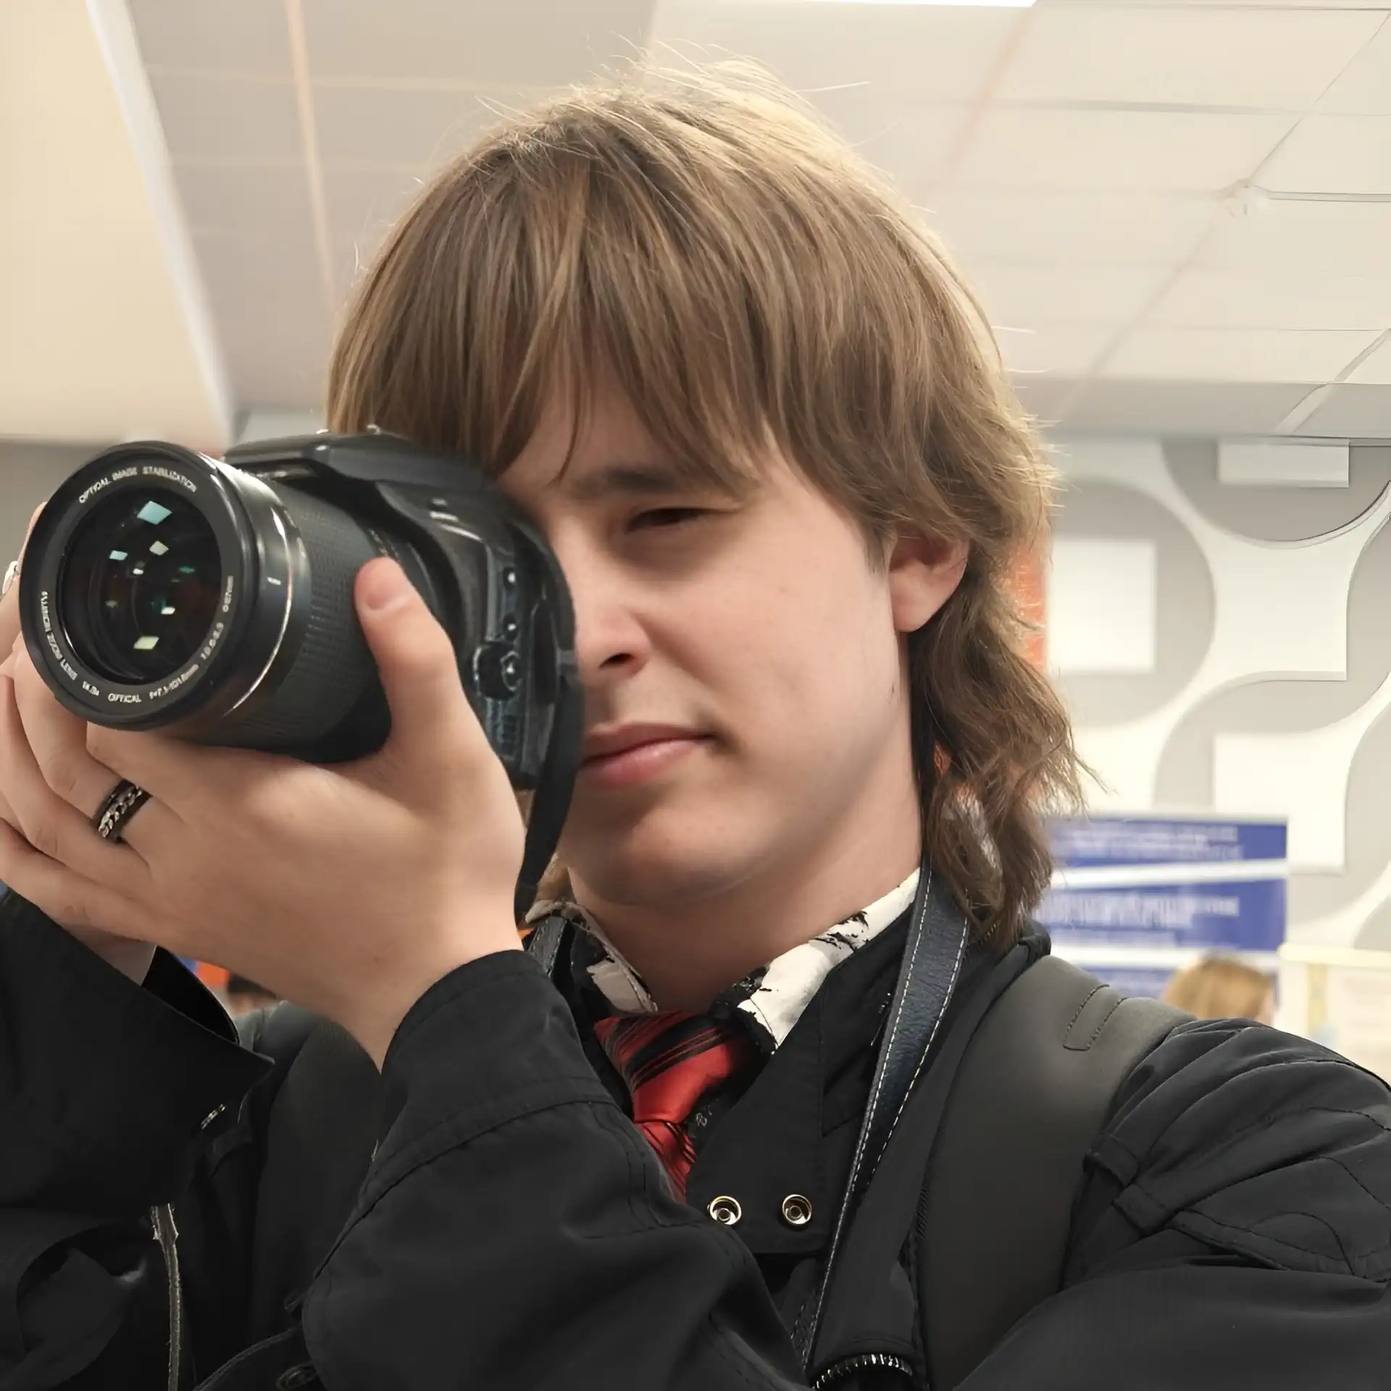
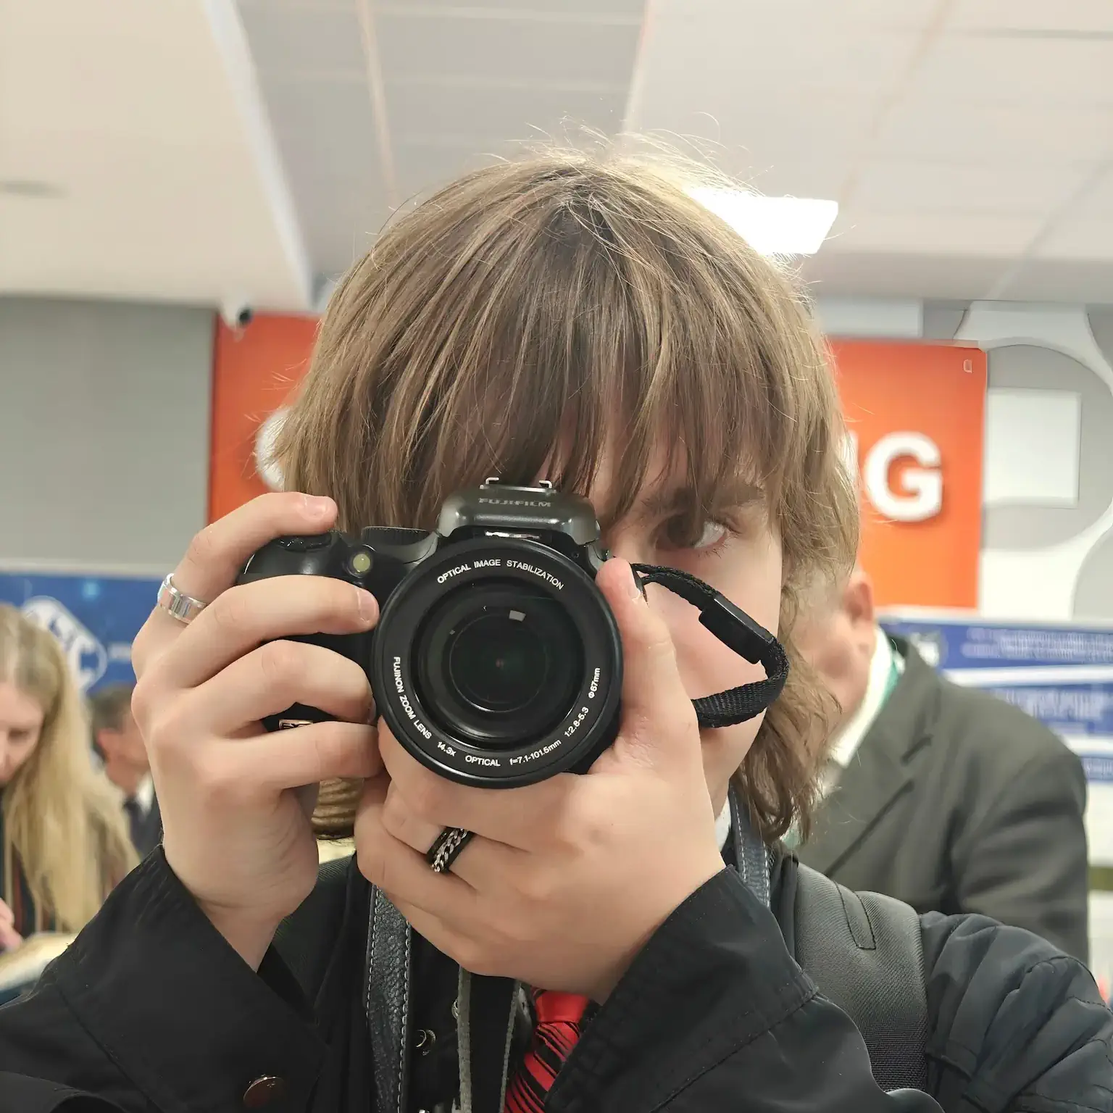
11.09.2026

diff --git a/index.html b/index.html
@@ -3,7 +3,7 @@
 <head>
 <meta charset="UTF-8">
 <meta name="viewport" content="width=device-width, initial-scale=1.0">
-<title>Совет Самоуправления Старост</title>
+<title>Совет Ученического Самоуправления</title>
 <style>
 
   :root{
@@ -35,7 +35,7 @@
   .brand-title{color:#fff;font-weight:700;font-size:17px;letter-spacing:.4px;text-align:right;line-height:1.25}
   .brand-title small{display:block;font-weight:400;font-size:12px;color:var(--gold2)}
   .logo-img{
-    width:52px;height:52px;flex:0 0 52px;border-radius:50%;object-fit:cover;
+    width:60px;height:60px;flex:0 0 60px;border-radius:50%;object-fit:cover;
     box-shadow:0 0 0 3px rgba(255,255,255,.15);background:#fff;
   }
   .burger{display:none;background:none;border:none;color:#fff;font-size:26px}
@@ -47,7 +47,6 @@
       display:none;box-shadow:0 20px 30px rgba(0,0,0,.3);
     }
     nav.open{display:flex}
-    .brand-title{display:none}
   }
 
   .page{display:none;min-height:calc(100vh - 76px)}
@@ -315,6 +314,19 @@
     .doc-acc-inner{padding-left:42px}
   }
 
+  /* ===== ПОИСК ПО ДАТЕ НА СТРАНИЦЕ «ИТОГИ» ===== */
+  .results-search{display:flex;gap:12px;flex-wrap:wrap;align-items:center;margin-bottom:26px}
+  .results-search input[type="date"]{
+    padding:11px 16px;font-size:15px;font-family:inherit;color:var(--text);
+    border:1px solid #d7dde5;border-radius:12px;background:#fff;outline:none;
+    transition:border-color .2s,box-shadow .2s;
+  }
+  .results-search input[type="date"]:focus{border-color:var(--gold);box-shadow:0 0 0 3px rgba(212,169,78,.2)}
+  .results-empty{
+    grid-column:1/-1;text-align:center;color:var(--muted);
+    font-size:15px;padding:40px 0;line-height:1.6;
+  }
+
   footer{background:var(--blue2);color:#aebfd0;text-align:center;padding:22px;font-size:13px;margin-top:40px}
 
 
@@ -417,15 +429,32 @@
   .member-info .role { font-size: 11px !important; }
   .member-info .grp { font-size: 11px !important; }
 
-  header { padding: 0 14px !important; }
-  .brand { gap: 10px !important; }
-  .brand-title { font-size: 14px !important; }
-  .brand-title small { font-size: 11px !important; }
+  header { padding: 0 14px !important; gap: 10px; }
+  .brand { gap: 10px !important; min-width: 0; }
+  .brand-title {
+    font-size: 13px !important;
+    line-height: 1.2 !important;
+    white-space: normal !important;
+    max-width: 46vw;
+  }
+  /* подзаголовок на смартфоне скрываем — места мало */
+  .brand-title small { display: none !important; }
+  /* на совсем узких экранах чуть уменьшаем */
+  @media (max-width: 480px) {
+    .brand-title { font-size: 12px !important; max-width: 52vw; }
+    .logo-img {
+      width: 40px !important;
+      height: 40px !important;
+      flex: 0 0 40px !important;
+    }
+  }
 }
 
 /* Мобильная оптимизация!! */
 
 </style>
+<base target="_blank">
+<base target="_blank">
 <base target="_blank">
 <base target="_blank">
 <base target="_blank">
@@ -439,8 +468,8 @@
   <nav id="nav"></nav>
   <div class="brand">
     <div class="brand-title">
-      Совет Самоуправления Старост
-      <small>представительный орган студенческого самоуправления</small>
+      Совет Ученического Самоуправления
+      <small>представительный орган обучающихся</small>
     </div>
     <!-- ЛОГОТИП: положите файл logo.png рядом с этим HTML-файлом -->
     <img class="logo-img" src="img/logo.webp" alt="Логотип Совета Самоуправления Старост">
@@ -495,8 +524,13 @@
     </div>
 
     <div class="team-subsection">
-      <h4 class="sub-title">Участники</h4>
+      <h4 class="sub-title">Старосты</h4>
       <div class="team-grid" id="team-members"></div>
+    </div>
+
+    <div class="team-subsection">
+      <h4 class="sub-title">Активы Колледжа</h4>
+      <div class="team-grid" id="team-actives"></div>
     </div>
 
     <div class="team-subsection">
@@ -510,6 +544,11 @@
 <main class="page" id="page-results">
   <section class="section">
     <div class="section-head"><h3>Итоги прошедших мероприятий</h3></div>
+    <div class="results-search">
+      <input type="date" id="results-date" aria-label="Дата мероприятия">
+      <button class="toggle-btn" id="results-find">Найти</button>
+      <button class="toggle-btn" id="results-reset">Сбросить</button>
+    </div>
     <div class="events-grid" id="results-grid"></div>
   </section>
 </main>
@@ -596,36 +635,12 @@ const SLIDES = [
 /* 3) СОБЫТИЯ (будущие). date "ГГГГ-ММ-ДД". long — подробности для окошка в календаре. */
 const EVENTS = [
   {
-    title: "Общее собрание старост курса",
-    desc: "Обсуждаем план работы на семестр, выборы актива и текущие вопросы по группам.",
-    long: "Открываем семестр: утверждаем план работы Совета, проводим выборы ответственных за направления и разбираем текущие вопросы по группам. Присутствие всех старост обязательно. После официальной части — неформальное общение.",
-    date: "2026-09-10", place: "Актовый зал",
+    title: "Созвон",
+    desc: "Созвон тутуту.",
+    long: "",
+    date: "2026-09-16", place: " - ",
     bg: "linear-gradient(135deg,#16324f,#2a5a86)",
     type: "meeting"
-  },
-  {
-    title: "Сдача отчётов по посещаемости",
-    desc: "Последний день подачи сводных ведомостей за первые две недели семестра.",
-    long: "Старостам необходимо сдать сводные ведомости посещаемости за первые две недели семестра. Форма отчёта — в общем чате Совета. Просьба не откладывать: после дедлайна данные передаются в деканат.",
-    date: "2026-09-15", place: "Кабинет 212",
-    bg: "linear-gradient(135deg,#7a2334,#c4465e)",
-    type: "deadline"
-  },
-  {
-    title: "Осенний субботник",
-    desc: "Уборка территории кампуса и прилегающего парка, сбор в 10:00 у главного входа.",
-    long: "Приводим территорию в порядок перед учебным сезоном: сбор мусора, уборка клумб и парковой зоны. Инвентарь выдаётся на месте. Активным участникам — благодарности. Сбор в 10:00 у главного входа.",
-    date: "2026-09-20", place: "Территория кампуса",
-    bg: "linear-gradient(135deg,#1d5c4a,#3aa08a)",
-    type: "event"
-  },
-  {
-    title: "День донора",
-    desc: "Выездная станция переливания крови работает в актовом зале с 9:00 до 14:00.",
-    long: "В актовом зале развёрнута выездная станция переливания крови. Перед сдачей — небольшой завтрак и консультация врача. Запись у координатора направления. Каждый донор получает сертификат и комплимент.",
-    date: "2026-09-25", place: "Актовый зал",
-    bg: "linear-gradient(135deg,#6b4e8f,#9b7ec4)",
-    type: "event"
   }
 ];
 
@@ -634,73 +649,54 @@ const EVENTS = [
       result — текст с итогами под описанием. */
 const RESULTS = [
   {
-    title: "Турнир «Битва старост»",
-    desc: "Спортивный турнир между командами старост: волейбол, эстафеты, перетягивание каната.",
-    result: "Участвовало 14 команд от групп. Победу одержала команда группы 204. Все участники получили грамоты, победители — кубок и памятные призы. Решено сделать турнир ежегодным.",
-    date: "2026-05-20", place: "Спортивный зал",
-    bg: "linear-gradient(135deg,#1d5c4a,#3aa08a)"
-  },
-  {
-    title: "Субботник «Чистая территория»",
-    desc: "Общегородской субботник с уборкой территории и высадкой кустарников.",
-    result: "В работах приняли участие 96 человек. Собрано 40 мешков мусора, высажено 25 кустов сирени и спирей. Группа 301 получила благодарность администрации за самую организованную бригаду.",
-    date: "2026-04-18", place: "Территория и парк",
-    bg: "linear-gradient(135deg,#16324f,#2a5a86)"
-  },
-  {
-    title: "Концерт ко Дню Победы",
-    desc: "Праздничный концерт с участием творческих коллективов и чтением писем с фронта.",
-    result: "Концерт посетило более 300 зрителей. Выступили 8 коллективов, открылась выставка «Письма с фронта». Собранные средства от благотворительной ярмарки на входе переданы ветеранам.",
-    date: "2026-05-09", place: "Актовый зал",
-    bg: "linear-gradient(135deg,#7a2334,#c4465e)"
-  },
-  {
-    title: "Ярмарка идей проектов",
-    desc: "Презентация студенческих проектов с голосованием за лучшую инициативу.",
-    result: "Представлено 12 проектов. По итогам голосования финансирование получили три идеи: «Студенческая кофейня», «Буккроссинг в коридорах» и «Экологичный кампус». Команды приступают к реализации.",
-    date: "2026-03-14", place: "Конференц-зал",
-    bg: "linear-gradient(135deg,#6b4e8f,#9b7ec4)"
+    title: "Фотовыставка [884 Гомель]",
+    desc: "Выставка приурочена к 884-летию Гомеля! Студенты поделились своими снимками самых красивых и живописных мест Гомеля.",
+    result: "Ученики с интересом побывали на выставке и посмотрели все фотографии. Многим понравилось творчество своих одногруппников. Впечателние были положительные",
+    date: "2026-09-11", place: "Холл Колледжа",
+    bg: 'url("img/events/1.webp") center/cover' /*Сюда картинку*/
   }
 ];
+
+
+
+
+
+
 
 /* 5) СОСТАВ Совета: contacts — почта, телефон, Telegram (ник без @).
       photo — путь к фото, например "photos/ivanova.jpg"; пока пусто — заглушка с инициалами. */
 
 /* Руководство */
 const LEADERS = [
-  { name: "Быркова Арина", role: "Председатель Совета Старост", group: "группа: ТМ-44", bg: "linear-gradient(135deg,#16324f,#2a5a86)", photo: "img/avatars/byrkova.webp",
-    contacts: { email: "ivanova@example.ru", phone: "+7 (900) 123-45-67", tg: "ivanova_sss" } },
+  { name: "Быркова Арина", role: "Председатель Совета", group: "ТМ-44", bg: "linear-gradient(135deg,#16324f,#2a5a86)", photo: "img/avatars/byrkova.webp",
+    contacts: { email: " - ", phone: "+375 29 571 3017", tg: "arixzweq18" } },
     { name: "Тихиня Егор", role: "Заместитель Председателя<br> Совета Старост", group: "группа: ТМ-44", bg: "linear-gradient(135deg,#1d5c4a,#3aa08a)", photo: "",
-    contacts: { email: "petrov@example.ru", phone: "+7 (900) 234-56-78", tg: "petrov_sss" } },
-    { name: "Железко Егор", role: "Секретарь Совета Старост", group: "группа: ТМ-44", bg: "linear-gradient(135deg,#1d5c4a,#3aa08a)", photo: "img/avatars/jelezko.webp",
-    contacts: { email: "petrov@example.ru", phone: "+7 (900) 234-56-78", tg: "petrov_sss" } },
+    contacts: { email: " - ", phone: " - ", tg: " - " } },
+    { name: "Железко Егор", role: "Секретарь Совета", group: "ТМ-44", bg: "linear-gradient(135deg,#1d5c4a,#3aa08a)", photo: "img/avatars/jelezko.webp",
+    contacts: { email: " - ", phone: "+375 44 770 4878", tg: "Egor_17nerial" } },
 ];
 
 /* Участники — все старосты */
 const MEMBERS_ALL = [
-  { name: "Смирнова Мария", role: "Секретарь", group: "группа 105", bg: "linear-gradient(135deg,#6b4e8f,#9b7ec4)", photo: "",
-    contacts: { email: "smirnova@example.ru", phone: "+7 (900) 345-67-89", tg: "smirnova_sss" } },
-  { name: "Козлов Артём", role: "Ответственный за спорт", group: "группа 302", bg: "linear-gradient(135deg,#a3542f,#d98a52)", photo: "",
-    contacts: { email: "kozlov@example.ru", phone: "+7 (900) 456-78-90", tg: "kozlov_sss" } },
-  { name: "Фёдорова София", role: "Ответственная за культуру", group: "группа 203", bg: "linear-gradient(135deg,#2e4a6b,#5a86b3)", photo: "",
-    contacts: { email: "fedorova@example.ru", phone: "+7 (900) 567-89-01", tg: "fedorova_sss" } },
-  { name: "Волков Никита", role: "Ответственный за СМИ", group: "группа 402", bg: "linear-gradient(135deg,#7a2334,#c4465e)", photo: "",
-    contacts: { email: "volkov@example.ru", phone: "+7 (900) 678-90-12", tg: "volkov_sss" } },
+  /* { name: "Кубай Глеб Юрьевич", role: "Глав. Администратор", group: "МО-34", bg: "linear-gradient(135deg,#16324f,#2a5a86)", photo: "img/avatars/kybai.webp",
+    contacts: { email: "admin@example.ru", phone: "+7 (900) 000-00-00", tg: "admin_sss" } }, */
+];
+
+const ACTIVES = [
+  /* { name: "Кубай Глеб Юрьевич", role: "Глав. Администратор", group: "МО-34", bg: "linear-gradient(135deg,#16324f,#2a5a86)", photo: "img/avatars/kybai.webp",
+    contacts: { email: "admin@example.ru", phone: "+7 (900) 000-00-00", tg: "admin_sss" } }, */
 ];
 
 /* Администрация сайта — добавьте сюда людей */
 const ADMINS = [
+  { name: "Кубай Глеб Юрьевич", role: "Админ, Фотограф", group: "МО-34", bg: "linear-gradient(135deg,#16324f,#2a5a86)", photo: "img/avatars/kybai.webp",
+    contacts: { email: "kubajhleb.work@gmail.com", phone: "+375 25 646 34 05", tg: "RaytFost" } },
+];
+
   /* Пример:
   { name: "Имя Фамилия", role: "Администратор сайта", group: "группа 101", bg: "linear-gradient(135deg,#16324f,#2a5a86)", photo: "",
     contacts: { email: "admin@example.ru", phone: "+7 (900) 000-00-00", tg: "admin_sss" } },
   */
-
-  { name: "Кубай Глеб Юрьевич", role: "Глав. Администратор", group: "МО-34", bg: "linear-gradient(135deg,#16324f,#2a5a86)", photo: "img/avatars/kybai.webp",
-    contacts: { email: "admin@example.ru", phone: "+7 (900) 000-00-00", tg: "admin_sss" } },
-
-];
-
-
 
 
 
@@ -849,24 +845,44 @@ toggleBtn.onclick = () => {
 
 
 
-/* --- Итоги: карточки прошедших мероприятий --- */
+/* --- Итоги: карточки прошедших мероприятий + поиск по дате --- */
 const resultsGrid = document.getElementById("results-grid");
-[...RESULTS].sort((a, b) => b.date.localeCompare(a.date)).forEach(r => {
-  const [y, m, d] = r.date.split("-").map(Number);
-  const card = document.createElement("div");
-  card.className = "event-card";
-  card.innerHTML = `
-    <div class="event-img" style="background:${r.bg}">
-      <div class="done-badge">Проведено</div>
-      <div class="date-badge"><b>${d}</b><span>${MONTHS[m-1]} ${y}</span></div>
-    </div>
-    <div class="event-body">
-      <h4>${r.title}</h4>
-      <p><b style="color:var(--gold)">Итоги:</b> ${r.result}</p>
-      <div class="place">📍 ${r.place}</div>
-    </div>`;
-  resultsGrid.appendChild(card);
+function renderResults(filterDate) {
+  resultsGrid.innerHTML = "";
+  const list = [...RESULTS]
+    .filter(r => !filterDate || r.date === filterDate)
+    .sort((a, b) => b.date.localeCompare(a.date));
+  if (!list.length) {
+    resultsGrid.innerHTML = `<div class="results-empty">По выбранной дате мероприятий не найдено.<br>Попробуйте другую дату или сбросьте поиск.</div>`;
+    return;
+  }
+  list.forEach(r => {
+    const [y, m, d] = r.date.split("-").map(Number);
+    const card = document.createElement("div");
+    card.className = "event-card";
+    card.innerHTML = `
+      <div class="event-img" style="background:${r.bg.replace(/"/g, "'")}">
+        <div class="date-badge"><b>${d}</b><span>${MONTHS[m-1]} ${y}</span></div>
+      </div>
+      <div class="event-body">
+        <h4>${r.title}</h4>
+        ${r.desc ? `<p style="color:var(--muted);font-size:13px;margin-bottom:6px">${r.desc}</p>` : ""}
+        <p>${r.result}</p>
+        <div class="place">📍 ${r.place}</div>
+      </div>`;
+    resultsGrid.appendChild(card);
+  });
+}
+const resultsDateInput = document.getElementById("results-date");
+document.getElementById("results-find").onclick = () => renderResults(resultsDateInput.value);
+document.getElementById("results-reset").onclick = () => {
+  resultsDateInput.value = "";
+  renderResults("");
+};
+resultsDateInput.addEventListener("keydown", e => {
+  if (e.key === "Enter") renderResults(resultsDateInput.value);
 });
+renderResults("");
 
 /* --- Календарь (квадратный) + боковая колонка событий --- */
 const DOW = ["Пн","Вт","Ср","Чт","Пт","Сб","Вс"];
@@ -936,7 +952,7 @@ function renderCalendar() {
           renderUpcoming(EVENTS, "Ближайшие события");
         } else {
           cell.classList.add("selected");
-          renderUpcoming(evs, `События · ${d} ${MONTHS[m-1]}`);
+          renderUpcoming(evs, `События · ${d} ${MONTHS[m]}`);
         }
       };
     }
@@ -989,6 +1005,7 @@ function renderTeamGrid(containerId, members) {
 const overlay = document.getElementById("member-overlay");
 renderTeamGrid("team-leaders", LEADERS);
 renderTeamGrid("team-members", MEMBERS_ALL);
+renderTeamGrid("team-actives", ACTIVES);
 renderTeamGrid("team-admins", ADMINS);
 function openMemberModal(mb) {
   const initials = mb.name.split(" ").map(w => w[0]).join("");
